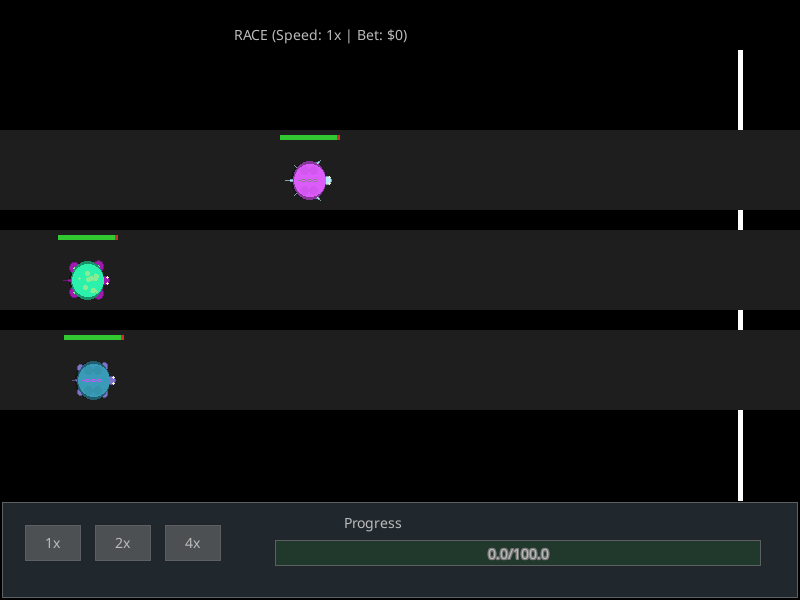
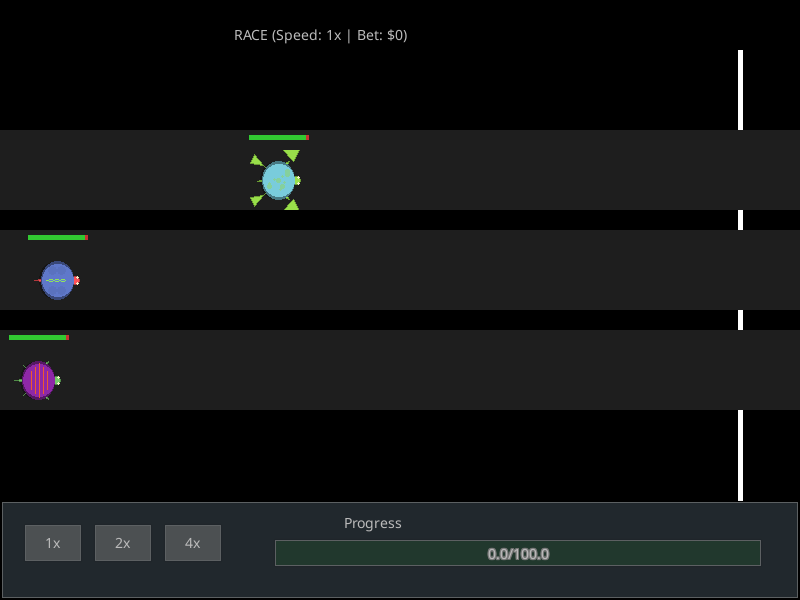
test: Add UI verification screenshots for ROSTER and RACE.

diff --git a/src/core/monitoring_overlay.py b/src/core/monitoring_overlay.py
@@ -55,6 +55,14 @@ class MonitoringOverlay:
         self.margin = 10
         self.line_height = 20
         
+        self.margin = 10
+        self.line_height = 20
+        
+        # Defer initialization until pygame is ready
+        # self._initialize_pygame_components()
+        
+    def initialize(self):
+        """Initialize pygame components. Must be called after pygame.init()."""
         self._initialize_pygame_components()
         
     def _initialize_pygame_components(self):

diff --git a/src/main.py b/src/main.py
@@ -78,6 +78,7 @@ class TurboShellsGame:
         
         # Start monitoring
         monitoring_system.start()
+        monitoring_overlay.initialize()
         self.game_logger.info("Monitoring system started")
 
         self.state = STATE_MENU
